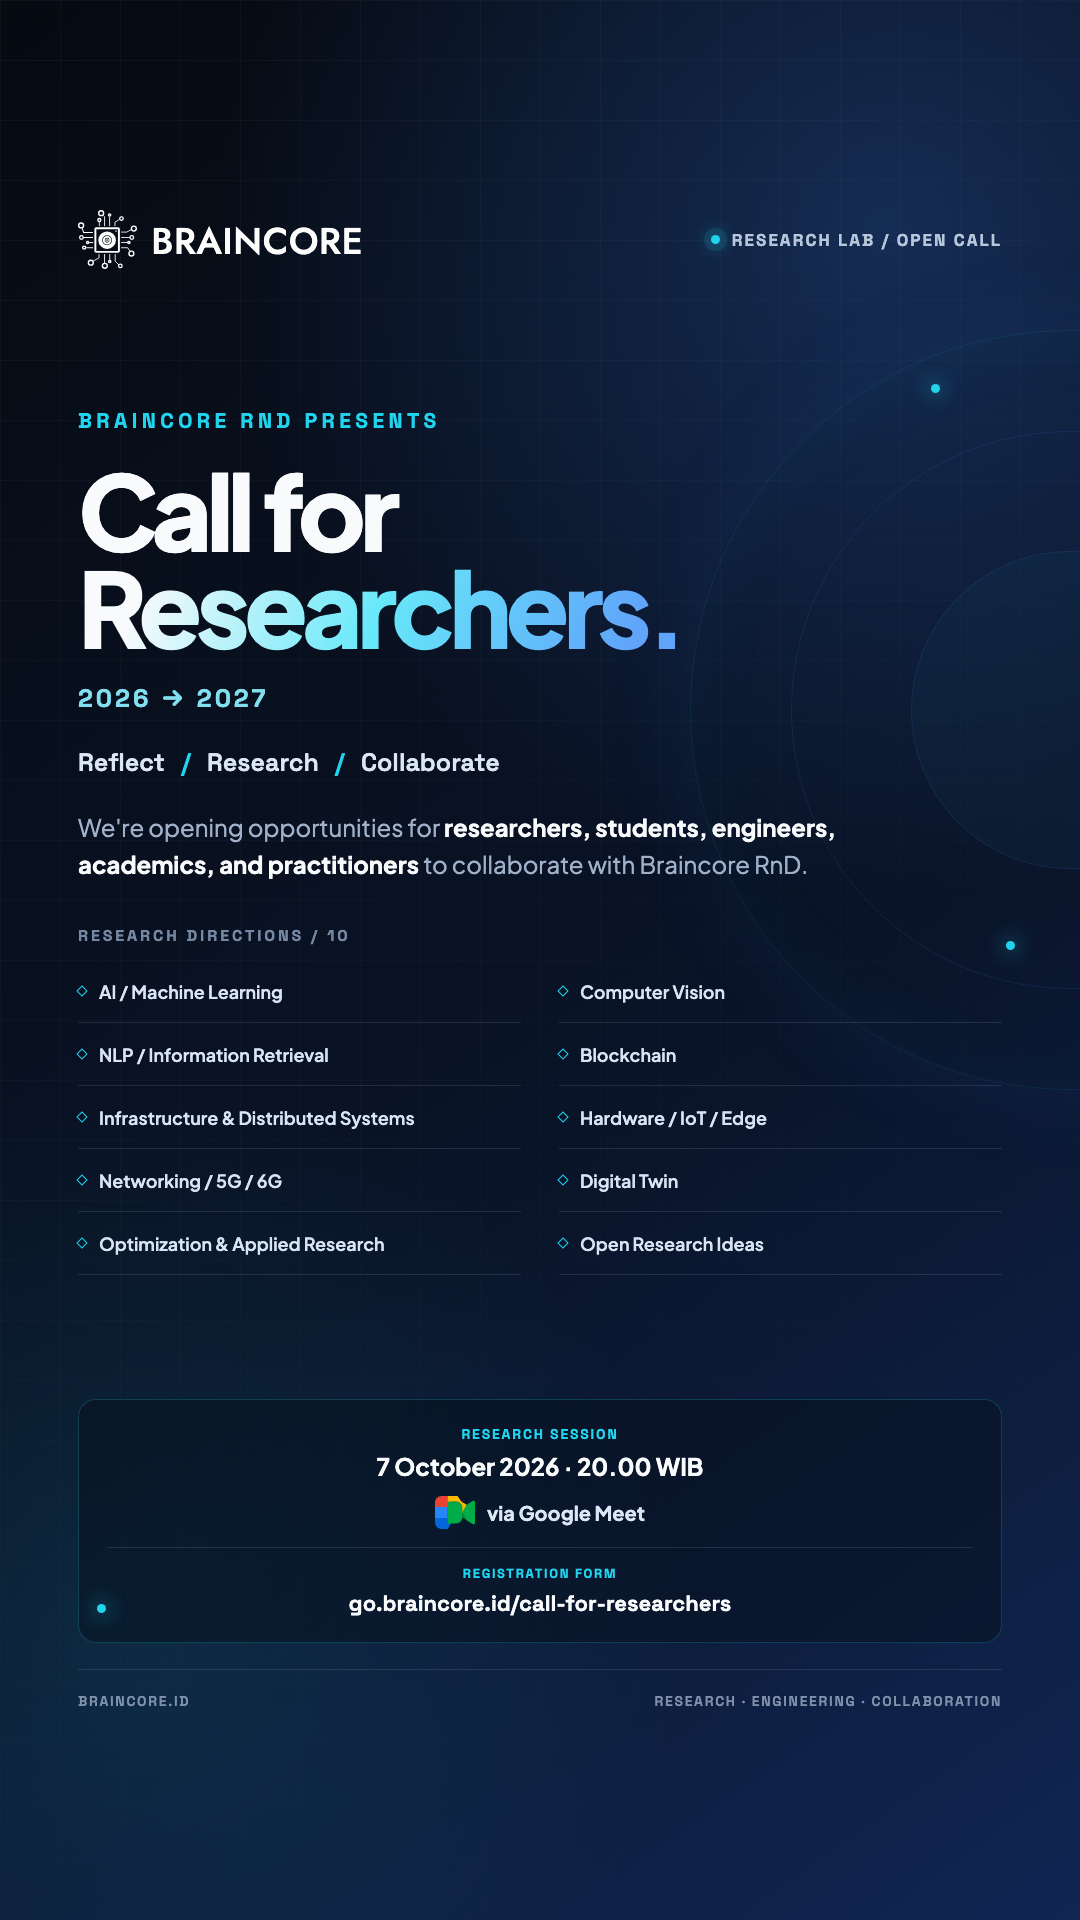
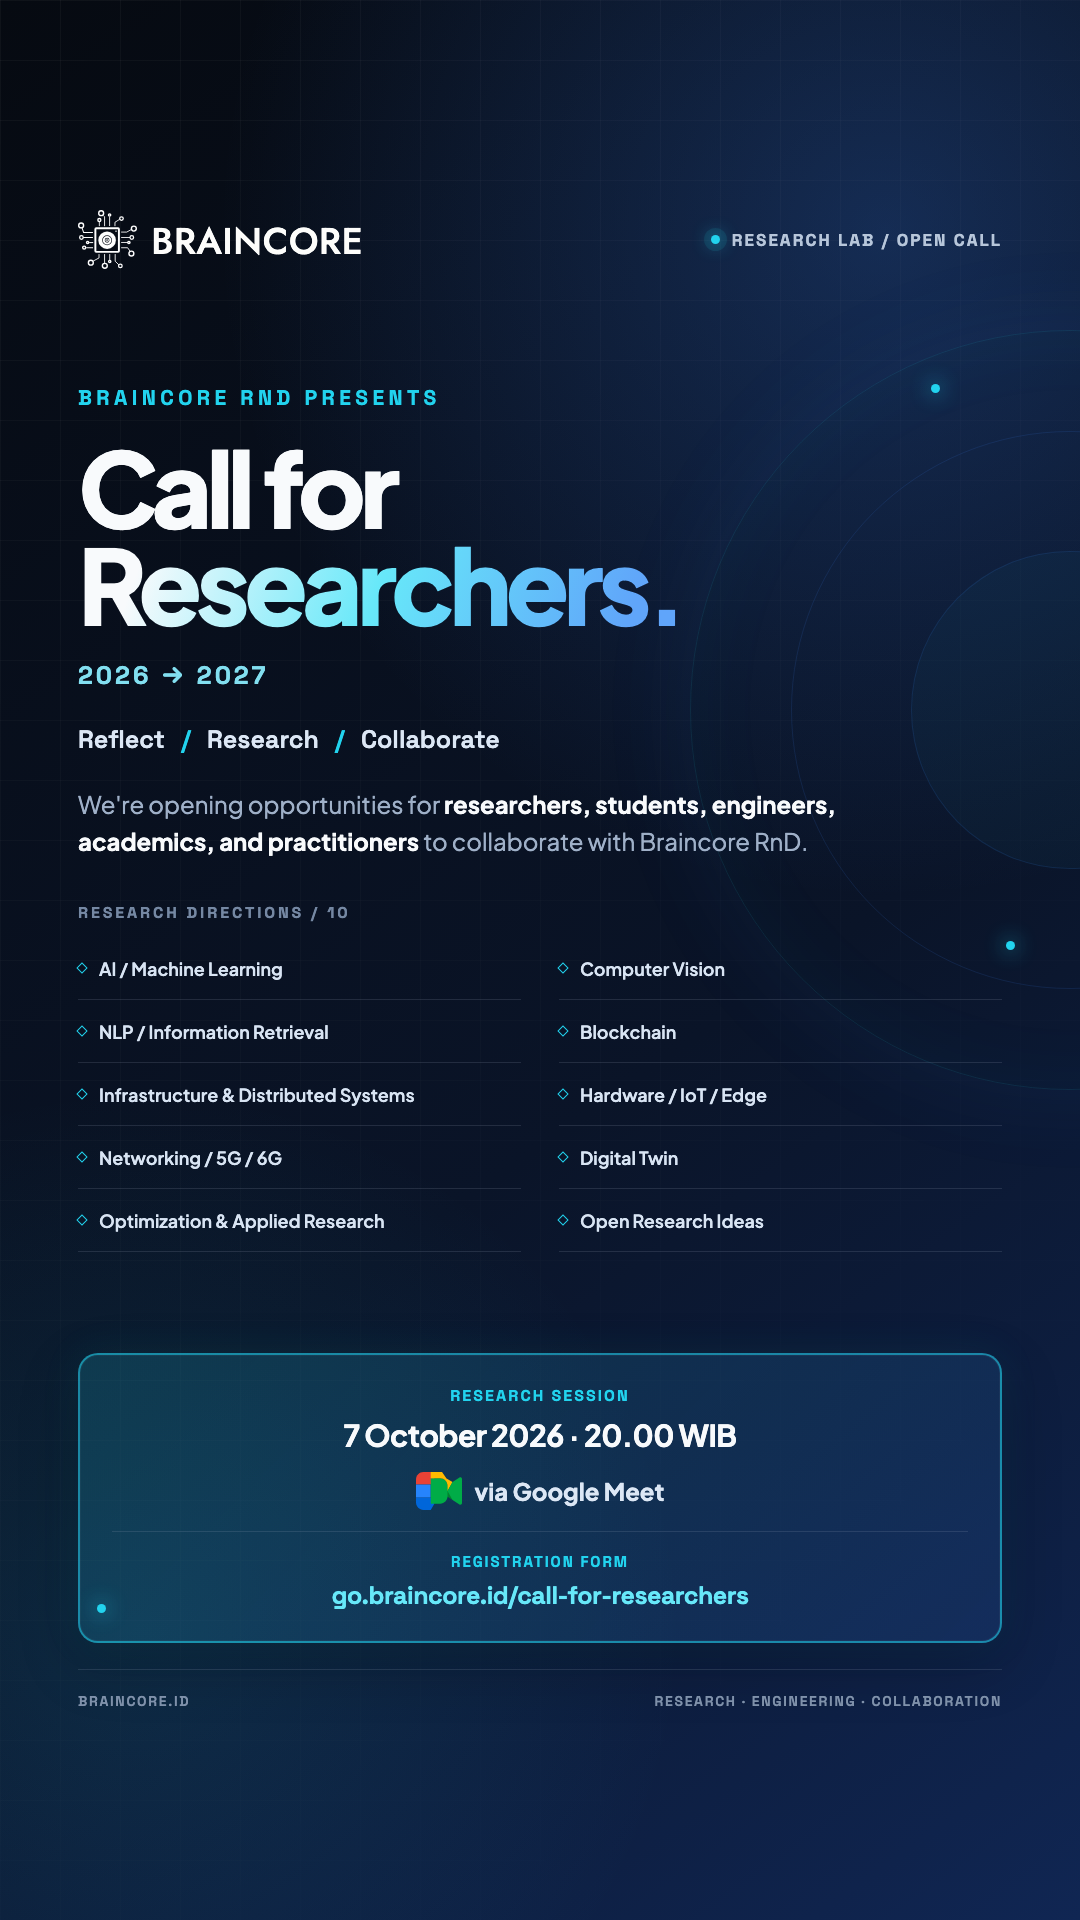
Highlight Braincore session details

Changed region(s): [[0.0611, 0.1875, 0.7639, 0.6562], [0.0611, 0.6875, 0.9472, 0.875], [0.5194, 0.5, 0.7028, 0.6562]]

diff --git a/braincore/call-for-researchers/styles.css b/braincore/call-for-researchers/styles.css
@@ -33,15 +33,15 @@ html, body { overflow: hidden; background: var(--bg); color: var(--white); font-
 .principles span + span::before { content: "/"; color: var(--cyan); margin: 0 .65em; }
 .intro { color: var(--muted); line-height: 1.55; }
 .intro strong { color: var(--white); }
-.event-info { display: flex; flex-direction: column; align-items: center; justify-content: center; text-align: center; border: 1px solid rgba(34,211,238,.22); background: rgba(6,15,29,.52); }
+.event-info { display: flex; flex-direction: column; align-items: center; justify-content: center; text-align: center; border: 2px solid rgba(34,211,238,.55); background: linear-gradient(135deg, rgba(34,211,238,.16), rgba(59,130,246,.12)); box-shadow: 0 0 0 1px rgba(255,255,255,.04) inset, 0 20px 60px rgba(0,0,0,.24), 0 0 42px rgba(34,211,238,.08); }
 .event-info > div:first-child { display: flex; flex-direction: column; align-items: center; }
 .event-label { color: var(--cyan); font-family: var(--mono); font-weight: 700; letter-spacing: .13em; text-transform: uppercase; }
-.event-info strong { color: var(--white); }
+.event-info strong { color: var(--white); letter-spacing: -.02em; }
 .meet { display: flex; align-items: center; color: #dce7f5; font-weight: 700; white-space: nowrap; }
 .meet img { display: block; object-fit: contain; }
 .registration { display: flex; flex-direction: column; align-items: center; border-top: 1px solid var(--line); color: #dce7f5; }
 .registration span { color: var(--cyan); font-family: var(--mono); font-weight: 700; letter-spacing: .13em; text-transform: uppercase; }
-.registration strong { color: var(--white); font-family: var(--mono); }
+.registration strong { color: #67e8f9; font-family: var(--mono); }
 .areas { display: grid; }
 .area { display: flex; align-items: center; gap: 13px; color: #d8e4f3; border-bottom: 1px solid var(--line); font-weight: 600; }
 .area::before { content: ""; flex: 0 0 auto; width: 6px; height: 6px; border: 1px solid var(--cyan); transform: rotate(45deg); }
@@ -60,14 +60,14 @@ html, body { overflow: hidden; background: var(--bg); color: var(--white); font-
 .story .eyebrow { font-size: 21px; letter-spacing: .21em; margin-bottom: 27px; }
 .story .title { font-size: 104px; max-width: 900px; }
 .story .year { margin-top: 26px; color: #82dff0; font-size: 25px; font-weight: 700; }
-.story .event-info { flex: 0 0 auto; padding: 25px 28px; border-radius: 18px; }
-.story .event-label { margin-bottom: 8px; font-size: 14px; }
-.story .event-info > div:first-child strong { font-size: 24px; }
-.story .meet { margin-top: 15px; gap: 12px; font-size: 20px; }
-.story .meet img { width: 40px; height: 33px; }
-.story .registration { width: 100%; margin-top: 18px; padding-top: 17px; gap: 7px; }
-.story .registration span { font-size: 13px; }
-.story .registration strong { font-size: 22px; }
+.story .event-info { flex: 0 0 auto; padding: 30px 32px; border-radius: 20px; }
+.story .event-label { margin-bottom: 10px; font-size: 16px; }
+.story .event-info > div:first-child strong { font-size: 30px; }
+.story .meet { margin-top: 18px; gap: 13px; font-size: 24px; }
+.story .meet img { width: 46px; height: 38px; }
+.story .registration { width: 100%; margin-top: 21px; padding-top: 20px; gap: 8px; }
+.story .registration span { font-size: 15px; }
+.story .registration strong { color: #67e8f9; font-size: 25px; }
 .story .principles { margin-top: 32px; font-size: 25px; }
 .story .intro { margin-top: 31px; max-width: 850px; font-size: 24px; }
 .story .areas-wrap { margin-top: 42px; }
@@ -89,14 +89,14 @@ html, body { overflow: hidden; background: var(--bg); color: var(--white); font-
 .banner .eyebrow { font-size: 18px; margin-bottom: 24px; }
 .banner .title { font-size: 92px; max-width: 800px; }
 .banner .year { margin-top: 20px; color: #82dff0; font-size: 22px; font-weight: 700; }
-.banner .event-info { margin-top: 18px; width: 100%; padding: 15px 18px; border-radius: 13px; }
-.banner .event-label { margin-bottom: 4px; font-size: 10px; }
-.banner .event-info strong { font-size: 17px; }
-.banner .meet { margin-top: 10px; gap: 9px; font-size: 14px; }
-.banner .meet img { width: 30px; height: 25px; }
-.banner .registration { margin-top: 12px; padding-top: 11px; gap: 4px; }
-.banner .registration span { font-size: 10px; }
-.banner .registration strong { font-size: 14px; }
+.banner .event-info { margin-top: 18px; width: 100%; padding: 20px 22px; border-radius: 15px; }
+.banner .event-label { margin-bottom: 6px; font-size: 12px; }
+.banner .event-info > div:first-child strong { font-size: 22px; }
+.banner .meet { margin-top: 12px; gap: 10px; font-size: 17px; }
+.banner .meet img { width: 35px; height: 29px; }
+.banner .registration { width: 100%; margin-top: 14px; padding-top: 13px; gap: 5px; }
+.banner .registration span { font-size: 11px; }
+.banner .registration strong { color: #67e8f9; font-size: 17px; }
 .banner .principles { margin-top: 26px; font-size: 22px; }
 .banner .intro { margin-top: 26px; max-width: 720px; font-size: 20px; }
 .banner .right-panel { padding: 32px 36px 34px; border: 1px solid var(--line); border-radius: 24px; background: linear-gradient(145deg, rgba(17,31,57,.75), rgba(8,17,34,.62)); box-shadow: 0 30px 80px rgba(0,0,0,.25); }
